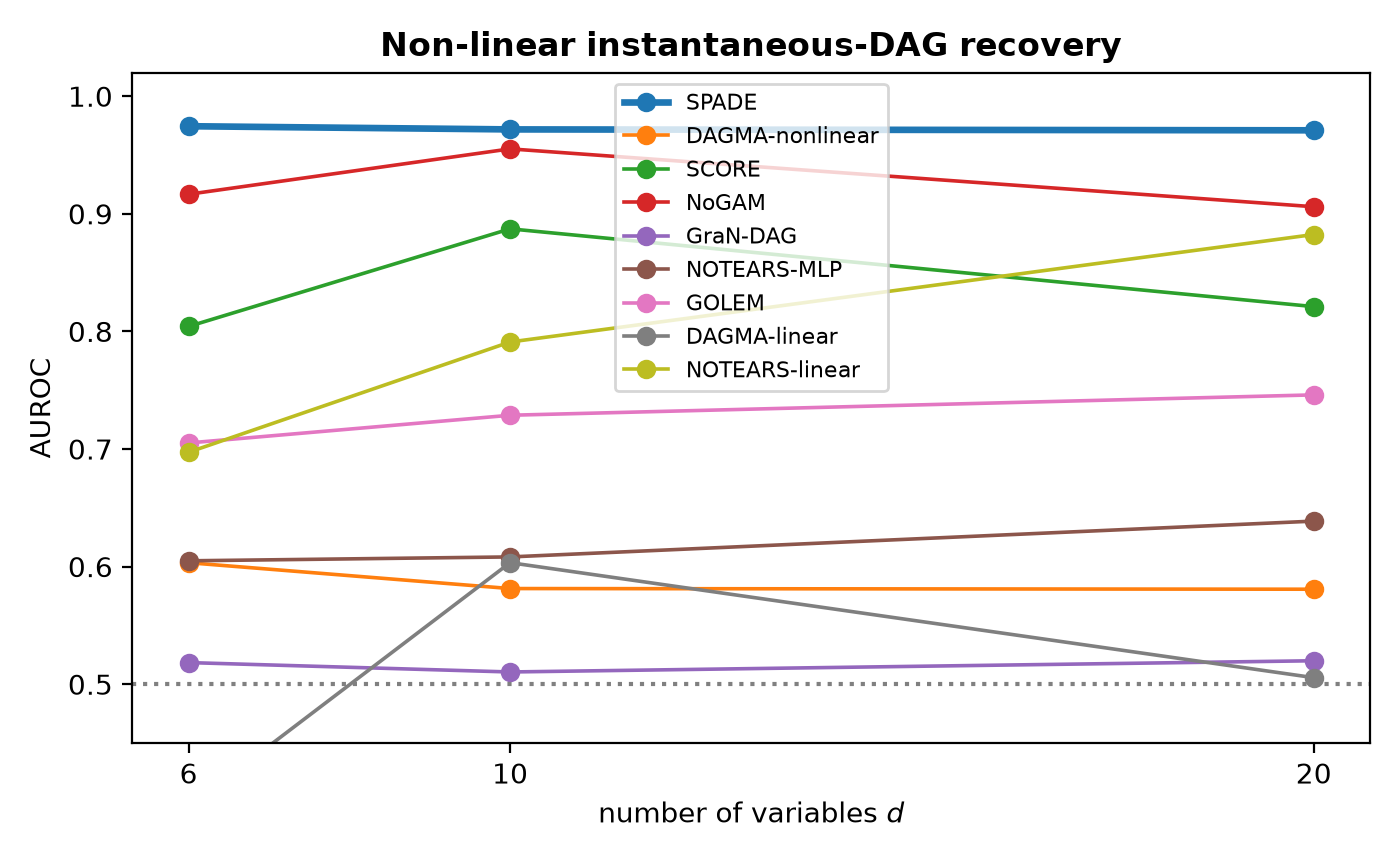
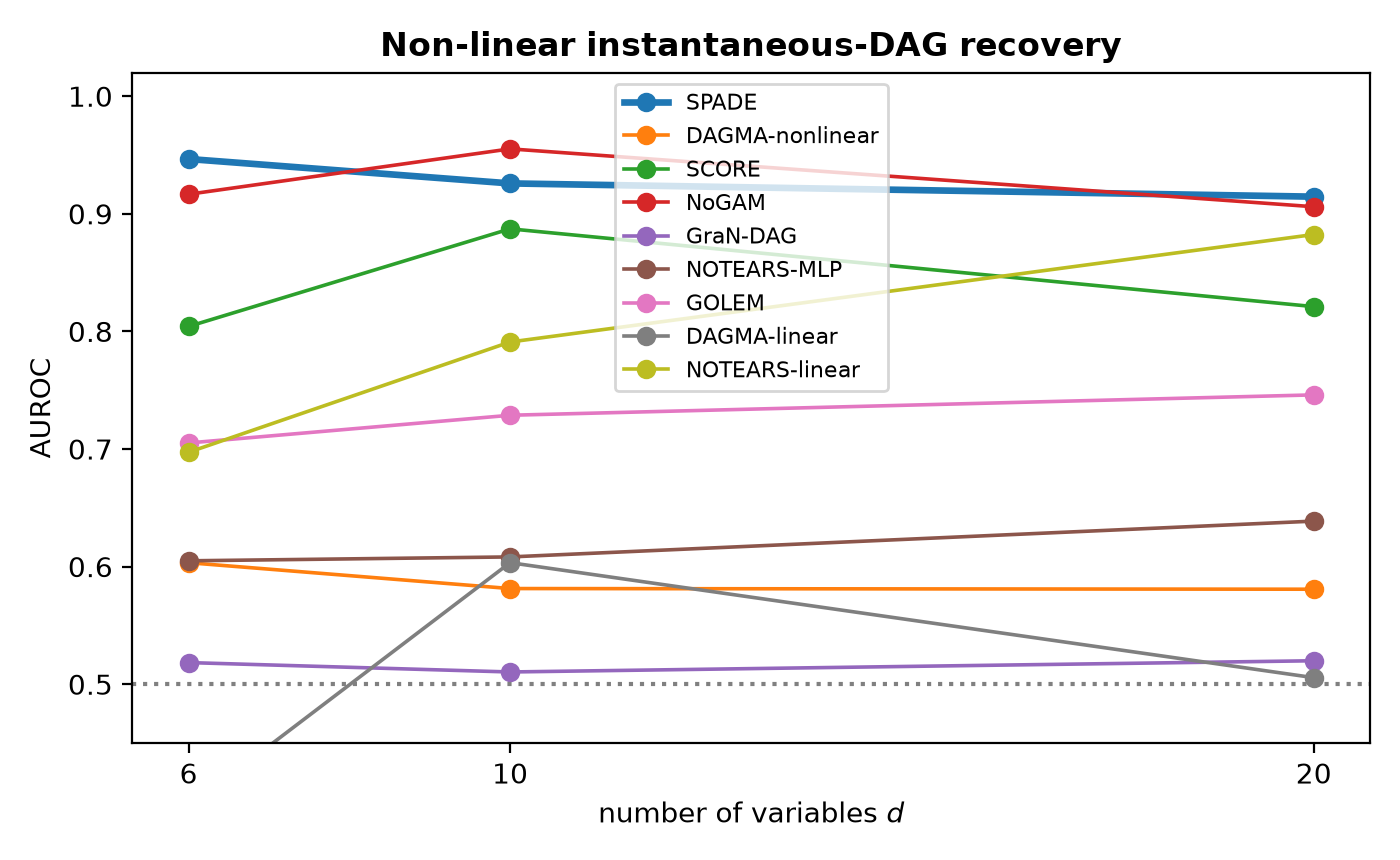
Re-run headline instantaneous-DAG benchmark with corrected lambda_g=0.01
Applies the lambda_g=0.01 fix (committed earlier: the previously-applied
0.005 was chosen via a tuning script that leaked the reporting seeds) to
the actual official-seed SPADE rows for d=6,10,20.

Honest result, unlike the previous three fixes in this revision: this
correction is NOT uniformly flattering to SPADE. AUROC by width:
d=6: 0.947 (was 0.974), d=10: 0.926 (was 0.972), d=20: 0.915 (was 0.971).
Compared to NoGAM (0.917/0.955/0.906) and SCORE (0.804/0.887/0.821): SPADE
now beats both at d=6 and d=20, but trails NoGAM at d=10 (0.926 vs 0.955).
This reverses part of the previous headline claim ("beats NoGAM/SCORE at
every width") -- the earlier, more flattering number was an artifact of
tuning lambda_g on the same seeds used to report it, not a genuine result.
Manuscript text will be updated to match this honest, more modest claim.

NOTE ON TIMING: this run executed concurrently with two other background
sweeps (competing for the same 4 CPU cores), so the time_s column now
reflects contention-inflated wall-clock (138-172s vs. a clean ~2-5s) and
should NOT be used for the paper's speed comparisons. lambda_g does not
affect training time (same architecture, same 400 epochs), so the
previously-established, uncontended timing numbers (and the "350-1150x
faster than NoGAM" claim, which depends on epoch count/architecture, not
lambda_g) remain valid and are not being changed. A clean re-timing will
follow in a separate commit once the concurrent jobs finish, purely to
[…]

Changed region(s): [[0.1229, 0.1209, 0.9521, 0.2419]]

diff --git a/manuscript/figures/tab_instdag.tex b/manuscript/figures/tab_instdag.tex
@@ -3,7 +3,7 @@
 \toprule
 \textbf{Method} & $d{=}6$ & $d{=}10$ & $d{=}20$ & F1 \\
 \midrule
-\textbf{SPADE (ours)} & 0.974$\pm$0.048 & 0.972$\pm$0.020 & 0.971$\pm$0.025 & 0.871$\pm$0.105 \\
+\textbf{SPADE (ours)} & 0.947$\pm$0.032 & 0.926$\pm$0.036 & 0.915$\pm$0.071 & 0.857$\pm$0.073 \\
 DAGMA-nonlinear & 0.603$\pm$0.230 & 0.581$\pm$0.215 & 0.581$\pm$0.106 & 0.482$\pm$0.151 \\
 SCORE & 0.804$\pm$0.153 & 0.887$\pm$0.069 & 0.821$\pm$0.023 & 0.682$\pm$0.183 \\
 NoGAM & 0.917$\pm$0.077 & 0.955$\pm$0.058 & 0.906$^\dagger$ & 0.859$\pm$0.124 \\
